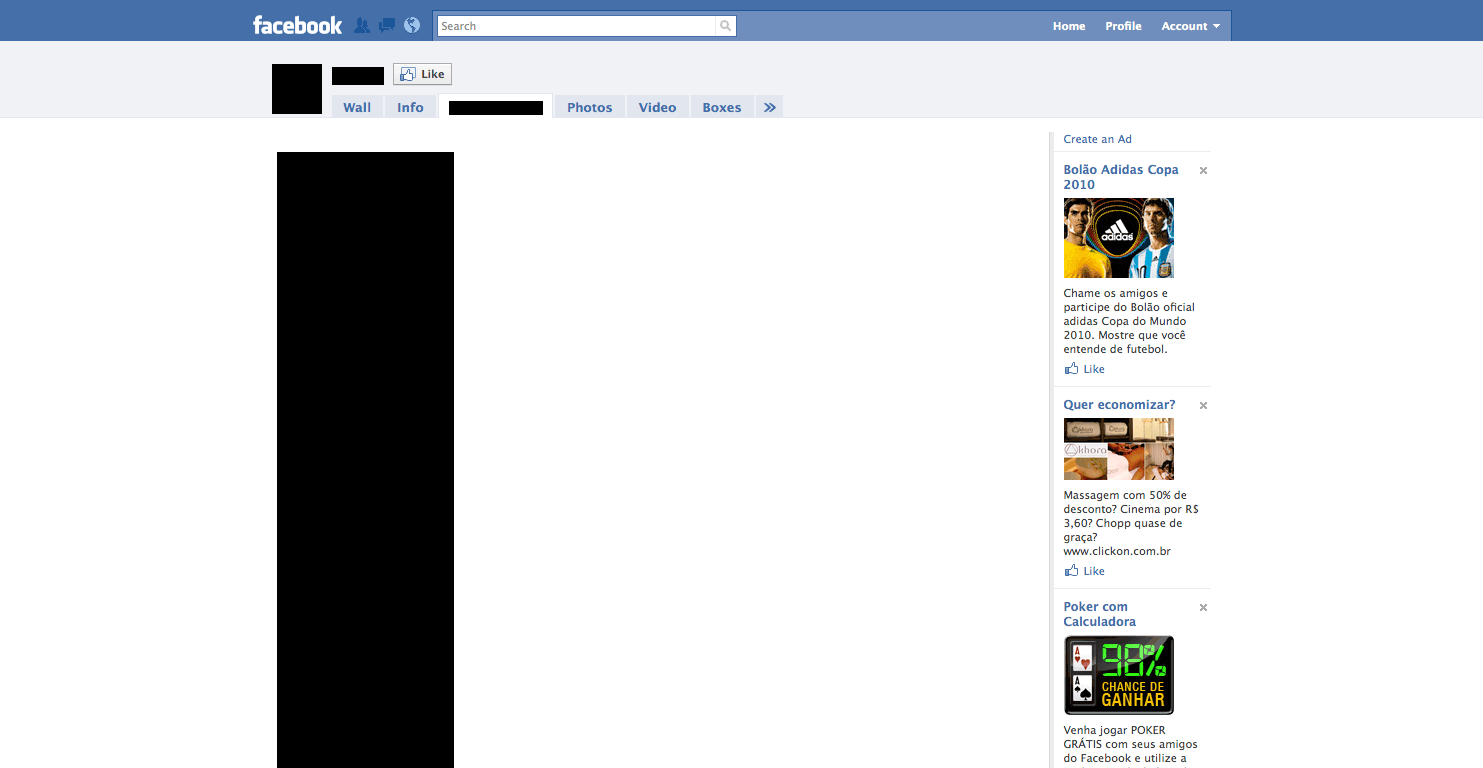
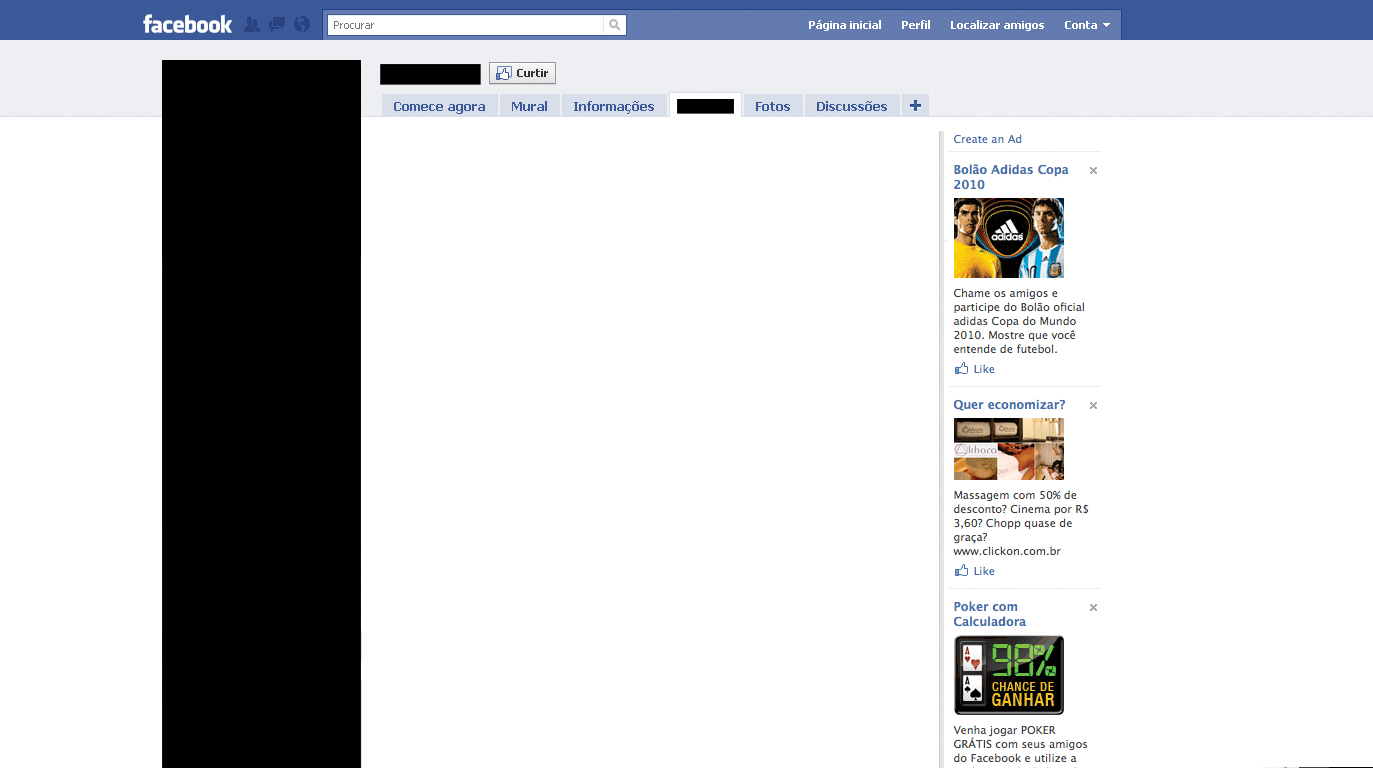
MOD: Alterada imagem de fundo e css do layout ( #contentWrapper) conforme novo padrão do Facebook.

Changed region(s): [[0.0918, 0.0, 0.673, 1.0], [0.673, 0.1562, 0.7953, 1.0], [0.5812, 0.0, 0.8565, 0.0625]]

diff --git a/DotNET-C-Sharp/facebook-FW-3.5-MVC-1.0/locales/global/css/layout.css b/DotNET-C-Sharp/facebook-FW-3.5-MVC-1.0/locales/global/css/layout.css
@@ -19,7 +19,7 @@ body {
 	body #contentWrapper {
 		width:546px;
 		overflow:hidden;
-		margin:0 auto 50px;		
+		margin-left:152px;	
 		padding-top:1px;		
 		$hh
 	}
